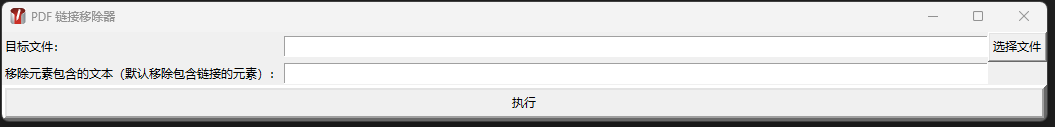
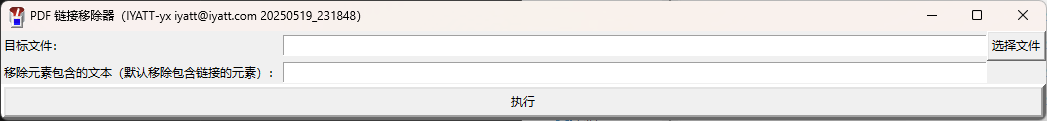
增加版本标记

diff --git a/pdf-link-remover.py b/pdf-link-remover.py
@@ -1,11 +1,12 @@
 from uimain import Main
+from buildtime import buildTime
 
 import tkinter as tk
 import os
 
 def main():
     root = tk.Tk()
-    root.title("PDF 链接移除器")
+    root.title(f"PDF 链接移除器（IYATT-yx iyatt@iyatt.com {buildTime}）")
     root.iconbitmap(
         os.path.join(
             os.path.dirname(__file__),
